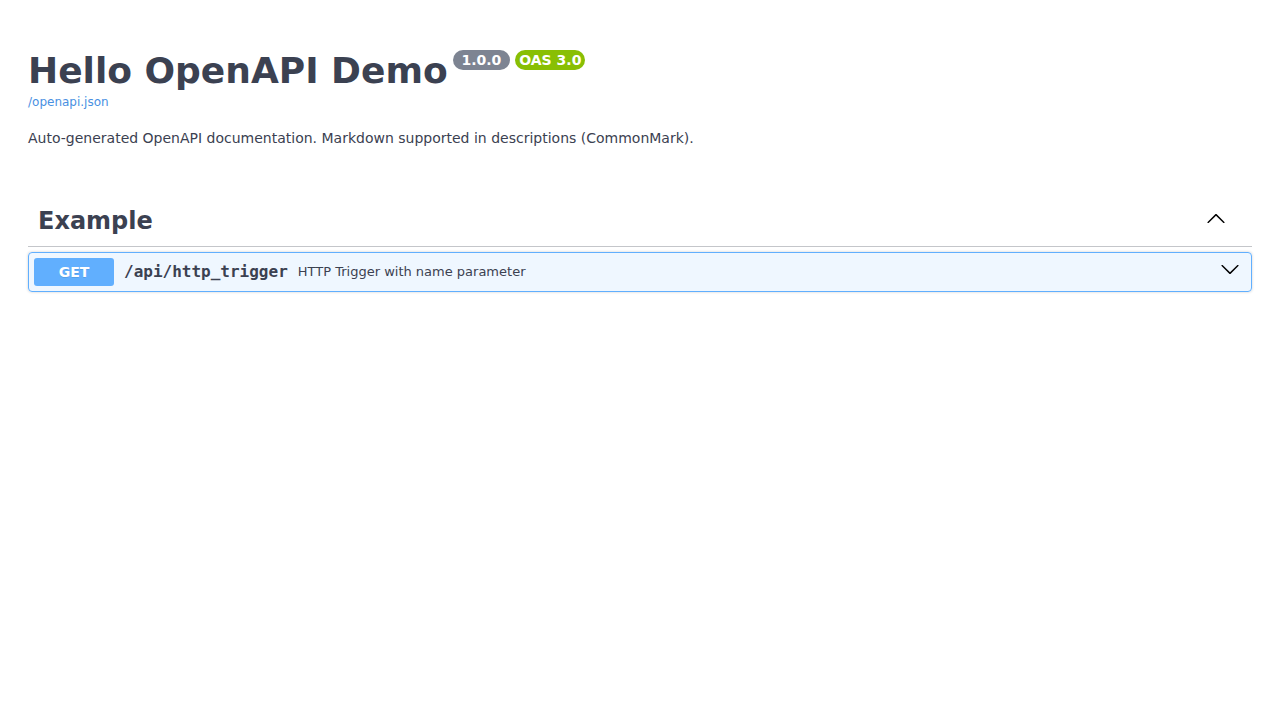
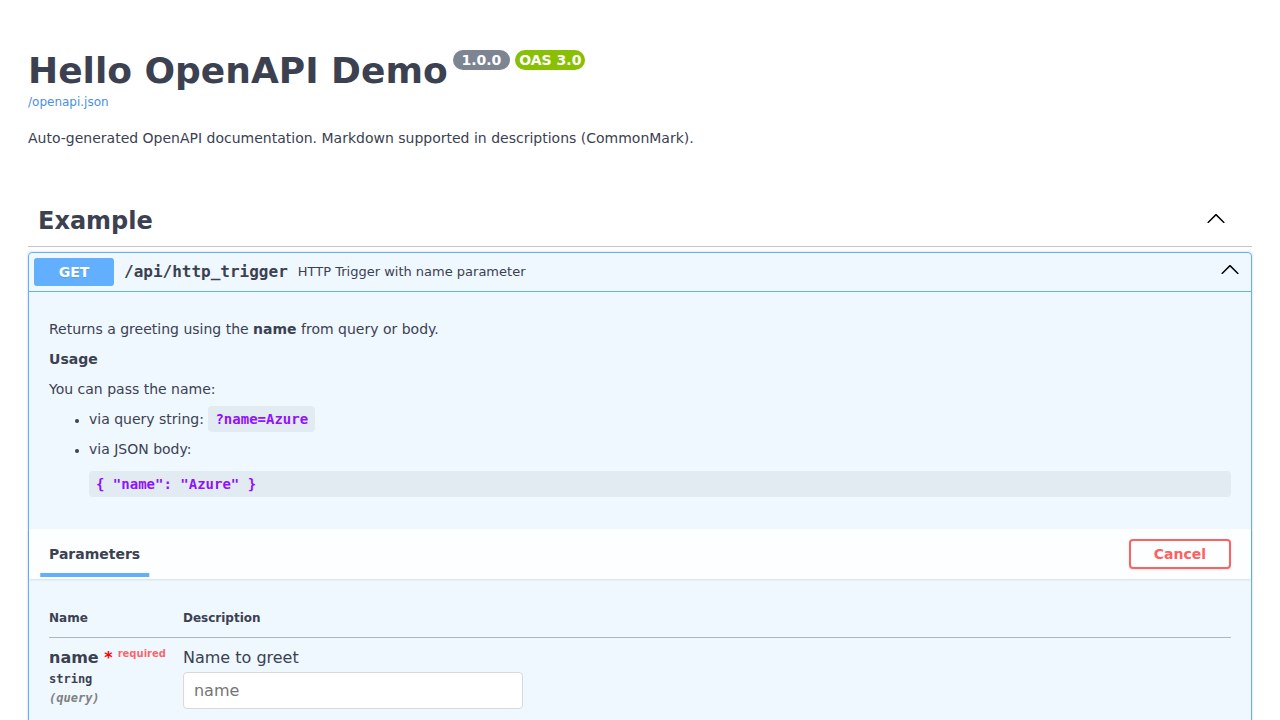
docs: expand Swagger UI preview endpoint

diff --git a/demo/render_hello_openapi_swagger_site.py b/demo/render_hello_openapi_swagger_site.py
@@ -14,6 +14,18 @@ if str(REPO_ROOT) not in sys.path:
     sys.path.insert(0, str(REPO_ROOT))
 
 
+def _expand_swagger_ui(html: str) -> str:
+    expanded_layout = (
+        "layout: 'BaseLayout',\n"
+        "            docExpansion: 'full',\n"
+        "            defaultModelsExpandDepth: -1,"
+    )
+    return html.replace(
+        "layout: 'BaseLayout',",
+        expanded_layout,
+    )
+
+
 def main() -> None:
     parser = argparse.ArgumentParser()
     parser.add_argument("--output-dir", required=True)
@@ -38,7 +50,10 @@ def main() -> None:
     )
 
     (output_dir / "openapi.json").write_text(openapi_json, encoding="utf-8")
-    (output_dir / "index.html").write_bytes(swagger_response.get_body())
+    (output_dir / "index.html").write_text(
+        _expand_swagger_ui(swagger_response.get_body().decode("utf-8")),
+        encoding="utf-8",
+    )
 
 
 if __name__ == "__main__":
